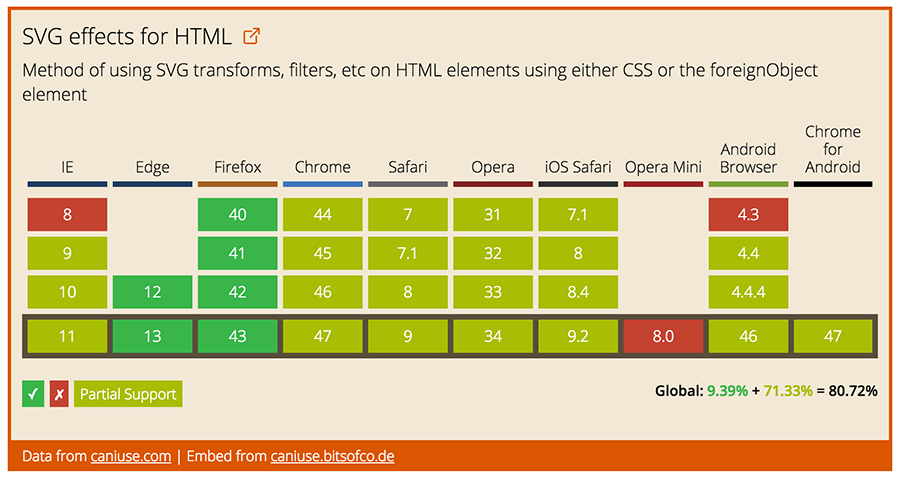
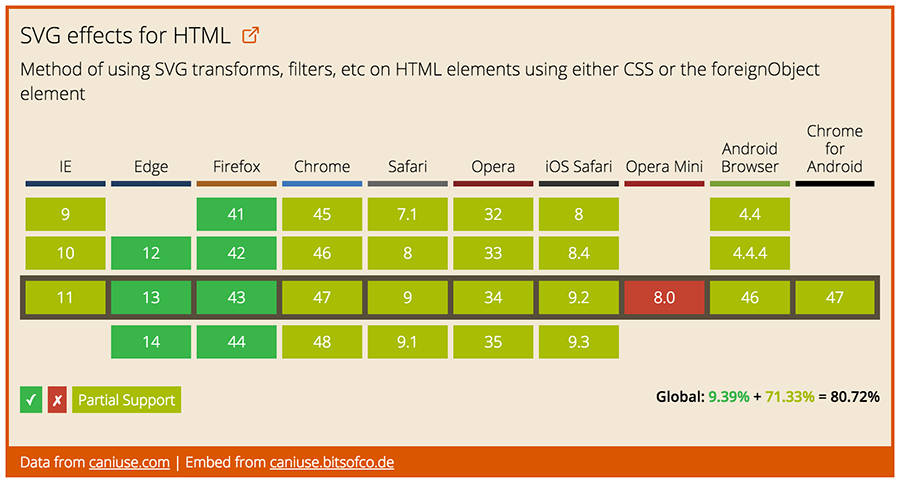
updated legend, new example image

Changed region(s): [[0.0, 0.0, 0.9956, 1.0]]

diff --git a/embed/index.html b/embed/index.html
@@ -1,1 +1,1 @@
-<html><body><link href="https://fonts.googleapis.com/css?family=Open+Sans:300,600' rel='stylesheet" rel=stylesheet inline><link rel=stylesheet href=style.css inline><div class=default-message></div><article class=feature><header class=feature-header><h1 class=feature-title><a href="/" class=feature-link target=_blank><span></span><svg width=15px viewbox="0 0 68 69"><title>External Link</title><g fill=#DB5600><path d="M64.855,0.781 L43.34,0.781 C41.613,0.781 40.219,2.18 40.219,3.902 C40.219,5.629 41.617,7.023 43.34,7.023 L57.66,7.023 L27.016,37.676 C25.797,38.895 25.797,40.871 27.016,42.094 C27.625,42.703 28.426,43.008 29.223,43.008 C30.02,43.008 30.82,42.703 31.43,42.094 L61.734,11.789 L61.734,25.418 C61.734,27.145 63.133,28.539 64.855,28.539 C66.582,28.539 67.977,27.141 67.977,25.418 L67.977,3.902 C67.977,2.18 66.582,0.781 64.855,0.781 L64.855,0.781 Z"></path><path d="M54.055,32.23 C52.328,32.23 50.934,33.629 50.934,35.352 L50.934,59.992 C50.934,61.121 49.98,62.074 48.852,62.074 L9.035,62.074 C7.906,62.074 6.953,61.121 6.953,59.992 L6.953,20.176 C6.953,19.047 7.906,18.094 9.035,18.094 L33.762,18.094 C35.488,18.094 36.883,16.695 36.883,14.973 C36.883,13.246 35.484,11.852 33.762,11.852 L9.031,11.852 C4.438,11.852 0.703,15.586 0.703,20.18 L0.703,59.996 C0.703,64.59 4.438,68.324 9.031,68.324 L48.848,68.324 C53.441,68.324 57.176,64.59 57.176,59.996 L57.176,35.355 C57.176,33.629 55.777,32.23 54.055,32.23 L54.055,32.23 Z"></path></g></svg></a></h1><p class=feature-description>&nbsp;</p></header><main class=feature-main><table class=feature-support><thead><tr><th class=ie><span class=browser-title><span>IE</span></span></th><th class=edge><span class=browser-title><span>Edge</span></span></th><th class=firefox><span class=browser-title><span>Firefox</span></span></th><th class=chrome><span class=browser-title><span>Chrome</span></span></th><th class=safari><span class=browser-title><span>Safari</span></span></th><th class=opera><span class=browser-title><span>Opera</span></span></th><th class=ios_saf><span class=browser-title><span>iOS Safari</span></span></th><th class=op_mini><span class=browser-title><span>Opera Mini</span></span></th><th class=android><span class=browser-title><span>Android Browser</span></span></th><th class=and_chr><span class=browser-title><span>Chrome for Android</span></span></th></tr></thead><tbody><tr class="past past_2 statistics"><td class=ie></td><td class=edge></td><td class=firefox></td><td class=chrome></td><td class=safari></td><td class=opera></td><td class=ios_saf></td><td class=op_mini></td><td class=android></td><td class=and_chr></td></tr><tr class="past past_1 statistics"><td class=ie></td><td class=edge></td><td class=firefox></td><td class=chrome></td><td class=safari></td><td class=opera></td><td class=ios_saf></td><td class=op_mini></td><td class=android></td><td class=and_chr></td></tr><tr class="current statistics"><td class=ie></td><td class=edge></td><td class=firefox></td><td class=chrome></td><td class=safari></td><td class=opera></td><td class=ios_saf></td><td class=op_mini></td><td class=android></td><td class=and_chr></td></tr><tr class="future future_1 statistics"><td class=ie></td><td class=edge></td><td class=firefox></td><td class=chrome></td><td class=safari></td><td class=opera></td><td class=ios_saf></td><td class=op_mini></td><td class=android></td><td class=and_chr></td></tr></tbody></table><small class=note></small><div class=legend><div class=y aria-label=Supported>&#x2713;</div><div class=n aria-lablel="Not Supported">&#x2717;</div><div class=a>Partial Support</div><div class=x>Prefixed</div></div></main><footer class=feature-footer>Data from <a href=http://caniuse.com target=_blank>caniuse.com</a> | Embed from <a href=http://caniuse.bitsofco.de target=_blank>caniuse.bitsofco.de</a></footer></article><script src=jquery.min.js></script><script src=script.js></script></body></html>
+<html><body><link href="https://fonts.googleapis.com/css?family=Open+Sans:300,600' rel='stylesheet" rel=stylesheet inline><link rel=stylesheet href=style.css inline><div class=default-message></div><article class=feature><header class=feature-header><h1 class=feature-title><a href="/" class=feature-link target=_blank><span></span><svg width=15px viewbox="0 0 68 69"><title>External Link</title><g fill=#DB5600><path d="M64.855,0.781 L43.34,0.781 C41.613,0.781 40.219,2.18 40.219,3.902 C40.219,5.629 41.617,7.023 43.34,7.023 L57.66,7.023 L27.016,37.676 C25.797,38.895 25.797,40.871 27.016,42.094 C27.625,42.703 28.426,43.008 29.223,43.008 C30.02,43.008 30.82,42.703 31.43,42.094 L61.734,11.789 L61.734,25.418 C61.734,27.145 63.133,28.539 64.855,28.539 C66.582,28.539 67.977,27.141 67.977,25.418 L67.977,3.902 C67.977,2.18 66.582,0.781 64.855,0.781 L64.855,0.781 Z"></path><path d="M54.055,32.23 C52.328,32.23 50.934,33.629 50.934,35.352 L50.934,59.992 C50.934,61.121 49.98,62.074 48.852,62.074 L9.035,62.074 C7.906,62.074 6.953,61.121 6.953,59.992 L6.953,20.176 C6.953,19.047 7.906,18.094 9.035,18.094 L33.762,18.094 C35.488,18.094 36.883,16.695 36.883,14.973 C36.883,13.246 35.484,11.852 33.762,11.852 L9.031,11.852 C4.438,11.852 0.703,15.586 0.703,20.18 L0.703,59.996 C0.703,64.59 4.438,68.324 9.031,68.324 L48.848,68.324 C53.441,68.324 57.176,64.59 57.176,59.996 L57.176,35.355 C57.176,33.629 55.777,32.23 54.055,32.23 L54.055,32.23 Z"></path></g></svg></a></h1><p class=feature-description>&nbsp;</p></header><main class=feature-main><table class=feature-support><thead><tr><th class=ie><span class=browser-title><span>IE</span></span></th><th class=edge><span class=browser-title><span>Edge</span></span></th><th class=firefox><span class=browser-title><span>Firefox</span></span></th><th class=chrome><span class=browser-title><span>Chrome</span></span></th><th class=safari><span class=browser-title><span>Safari</span></span></th><th class=opera><span class=browser-title><span>Opera</span></span></th><th class=ios_saf><span class=browser-title><span>iOS Safari</span></span></th><th class=op_mini><span class=browser-title><span>Opera Mini</span></span></th><th class=android><span class=browser-title><span>Android Browser</span></span></th><th class=and_chr><span class=browser-title><span>Chrome for Android</span></span></th></tr></thead><tbody><tr class="past past_2 statistics"><td class=ie></td><td class=edge></td><td class=firefox></td><td class=chrome></td><td class=safari></td><td class=opera></td><td class=ios_saf></td><td class=op_mini></td><td class=android></td><td class=and_chr></td></tr><tr class="past past_1 statistics"><td class=ie></td><td class=edge></td><td class=firefox></td><td class=chrome></td><td class=safari></td><td class=opera></td><td class=ios_saf></td><td class=op_mini></td><td class=android></td><td class=and_chr></td></tr><tr class="current statistics"><td class=ie></td><td class=edge></td><td class=firefox></td><td class=chrome></td><td class=safari></td><td class=opera></td><td class=ios_saf></td><td class=op_mini></td><td class=android></td><td class=and_chr></td></tr><tr class="future future_1 statistics"><td class=ie></td><td class=edge></td><td class=firefox></td><td class=chrome></td><td class=safari></td><td class=opera></td><td class=ios_saf></td><td class=op_mini></td><td class=android></td><td class=and_chr></td></tr></tbody></table><small class=note></small><div class=legend><div class=y aria-label=Supported>&#x2713;</div><div class=n aria-lablel="Not Supported">&#x2717;</div><div class=a>Partial Support</div><div class=x>Prefixed</div><div class=u aria-lablel="Unknown Support">?</div></div></main><footer class=feature-footer>Data from <a href=http://caniuse.com target=_blank>caniuse.com</a> | Embed from <a href=http://caniuse.bitsofco.de target=_blank>caniuse.bitsofco.de</a></footer></article><script src=jquery.min.js></script><script src=script.js></script></body></html>

diff --git a/embed/script.js b/embed/script.js
@@ -1,1 +1,1 @@
-$(document).ready(function(){function e(e,t){return Number(Math.round(e+"e"+t)+"e-"+t)}function t(e){return e&&e.indexOf("-")>-1&&(e=e.split("-")[1]),e}var a="https://raw.githubusercontent.com/Fyrd/caniuse/master/data.json",s=location.href.split("?feat=")[1],r=43,n=["ie","edge","firefox","chrome","safari","opera","ios_saf","op_mini","android","and_chr"],o=["future_1","current","past_1","past_2"];$(".default-message").html('<a href="http://caniuse.com/#feat='+s+'">Can I Use '+s+"?</a> Data on support for the "+s+" feature across the major browsers from caniuse.com."),$.getJSON(a,function(a){var u=a.data[s];if(u){var i=u.usage_perc_y,f=u.usage_perc_a,l=i+f,l=e(l,2),p=u.description;p.length>190&&(p=p.slice(0,180)+"...."),$(".feature-title span").html(u.title),$(".feature-description").html(p),$(".feature-link").attr("href","http://caniuse.com/#feat="+s),$(".note").html('Global: <span class="y">'+i+'%</span> + <span class="a">'+f+"%</span> = "+l+"%");for(var h={},c=0;c<n.length;c++){var d=n[c];h[d]={future_1:a.agents[d].versions[r+1],current:a.agents[d].versions[r],past_1:a.agents[d].versions[r-1],past_2:a.agents[d].versions[r-2]}}for(var g={},c=0;c<n.length;c++){var d=n[c],m=h[d].current,v=parseInt(a.agents[d].usage_global[m]),_=Math.round(v);g[d]=_}for(var x={},c=0;c<n.length;c++){var d=n[c];x[d]={future_1:u.stats[d][h[d].future_1],current:u.stats[d][h[d].current],past_1:u.stats[d][h[d].past_1],past_2:u.stats[d][h[d].past_2]}}for(var b=!1,c=0;c<n.length;c++)for(var d=n[c],w=0;w<o.length;w++){var y=o[w],O=$("tr."+y+" td."+d);void 0!=x[d][y]?O.addClass(x[d][y]):!1;var j=t(h[d][y]),C="<span>"+j+"</span>";"current"===y&&(C="<span>"+j+'</span><span class="usage">'+g[d]+"%</span>"),void 0!=h[d][y]?O.html(C):O.html("<span></span>"),void 0!=x[d][y]&&x[d][y].indexOf("x")>-1&&(b=!0)}b?$(".legend .x").show():$(".legend .x").hide()}else $(".feature-title").html("Uh Oh!"),$(".feature-description").html("The feature <strong>'"+s+"'</strong> was not recognized. "),$(".feature-main").html("");$(".default-message").hide(),$(".feature").show()})});
+$(document).ready(function(){function e(e,t){return Number(Math.round(e+"e"+t)+"e-"+t)}function t(e){return e&&e.indexOf("-")>-1&&(e=e.split("-")[1]),e}var a="https://raw.githubusercontent.com/Fyrd/caniuse/master/data.json",s=location.href.split("?feat=")[1],r=43,n=["ie","edge","firefox","chrome","safari","opera","ios_saf","op_mini","android","and_chr"],o=["future_1","current","past_1","past_2"];$(".default-message").html('<a href="http://caniuse.com/#feat='+s+'">Can I Use '+s+"?</a> Data on support for the "+s+" feature across the major browsers from caniuse.com. (Embed Loading)"),$.getJSON(a,function(a){var u=a.data[s];if(u){var i=u.usage_perc_y,f=u.usage_perc_a,l=i+f,l=e(l,2),h=u.description;h.length>190&&(h=h.slice(0,180)+"...."),$(".feature-title span").html(u.title),$(".feature-description").html(h),$(".feature-link").attr("href","http://caniuse.com/#feat="+s),$(".note").html('Global: <span class="y">'+i+'%</span> + <span class="a">'+f+"%</span> = "+l+"%");for(var d={},p=0;p<n.length;p++){var c=n[p];d[c]={future_1:a.agents[c].versions[r+1],current:a.agents[c].versions[r],past_1:a.agents[c].versions[r-1],past_2:a.agents[c].versions[r-2]}}for(var g={},p=0;p<n.length;p++){var c=n[p],m=d[c].current,v=parseInt(a.agents[c].usage_global[m]),_=Math.round(v);g[c]=_}for(var x={},p=0;p<n.length;p++){var c=n[p];x[c]={future_1:u.stats[c][d[c].future_1],current:u.stats[c][d[c].current],past_1:u.stats[c][d[c].past_1],past_2:u.stats[c][d[c].past_2]}}for(var b=!1,w=!1,p=0;p<n.length;p++)for(var c=n[p],O=0;O<o.length;O++){var y=o[O],j=$("tr."+y+" td."+c);void 0!=x[c][y]?j.addClass(x[c][y]):!1;var C=t(d[c][y]),I="<span>"+C+"</span>";"current"===y&&(I="<span>"+C+'</span><span class="usage">'+g[c]+"%</span>"),void 0!=d[c][y]?j.html(I):j.html("<span></span>"),void 0!=x[c][y]&&x[c][y].indexOf("x")>-1&&(b=!0),void 0!=x[c][y]&&x[c][y].indexOf("u")>-1&&(w=!0)}b?$(".legend .x").show():$(".legend .x").hide(),w?$(".legend .u").show():$(".legend .u").hide()}else $(".feature-title").html("Uh Oh!"),$(".feature-description").html("The feature <strong>'"+s+"'</strong> was not recognized. "),$(".feature-main").html("");$(".default-message").hide(),$(".feature").show()})});

diff --git a/development/embed/script.js b/development/embed/script.js
@@ -20,8 +20,7 @@ $(document).ready(function() {
 	}
 
 
-	$('.default-message').html('<a href="http://caniuse.com/#feat='+featureID+'">Can I Use '+featureID+'?</a> Data on support for the '+featureID+' feature across the major browsers from caniuse.com.');
-
+	$('.default-message').html('<a href="http://caniuse.com/#feat='+featureID+'">Can I Use '+featureID+'?</a> Data on support for the '+featureID+' feature across the major browsers from caniuse.com. (Embed Loading)');
 
 
 	// GET CANIUSE JSON
@@ -98,6 +97,7 @@ $(document).ready(function() {
 		
 
 			var hasPrefixed = false;
+			var hasUnknown = false;
 
 			// DISPLAY DATA
 			for (var i = 0; i < browsers.length; i++) {
@@ -126,9 +126,14 @@ $(document).ready(function() {
 					// ADD VERSION NUMBER TO TABLE CELL
 					browserVersions[browser][period] != undefined ? period_element.html(versionString) : period_element.html('<span></span>');
 
-					// CHECK IF ANY HAS PREFIX
+
+					// CHECK IF ANY HAS PREFIX OR UNKOWN
+
 					if ( data[browser][period] != undefined && data[browser][period].indexOf('x') > -1 ) {
 						hasPrefixed = true;
+					}
+					if ( data[browser][period] != undefined && data[browser][period].indexOf('u') > -1 ) {
+						hasUnknown = true;
 					}
 
 			
@@ -139,6 +144,7 @@ $(document).ready(function() {
 
 			// DISPLAY PREFIX LEGEND IF DATA HAS PREFIXED
 			hasPrefixed ? $('.legend .x').show() : $('.legend .x').hide()
+			hasUnknown ? $('.legend .u').show() : $('.legend .u').hide()
 
 		} // end else if feature
 

diff --git a/development/embed/index.html b/development/embed/index.html
@@ -3,8 +3,7 @@
 <link href="https://fonts.googleapis.com/css?family=Open+Sans:300,600' rel='stylesheet" rel="stylesheet" inline>
 <link rel="stylesheet" href="style.css" inline>
 
-<div class="default-message">
-</div>
+<div class="default-message"></div>
 	
 <article class="feature">
 
@@ -130,6 +129,7 @@
 			<div class="n" aria-lablel="Not Supported">&#x2717;</div>
 			<div class="a">Partial Support</div>
 			<div class="x">Prefixed</div>
+			<div class="u" aria-lablel="Unknown Support">?</div>
 		</div>
 	</main>
 

diff --git a/index.html b/index.html
@@ -61,8 +61,8 @@
 		<section class="site-section">
 			<h2>Example</h2>
 
-			<p class="ciu_embed" data-feature="picture">
-				<a href="http://caniuse.com/#feat=border-image">Can I Use border-image</a>
+			<p class="ciu_embed" data-feature="svg-html">
+				<a href="http://caniuse.com/#feat=svg-html">Can I Use picture?</a> Data on support for the svg-html feature across the major browsers from caniuse.com.
 			</p>
 		</section>
 

diff --git a/README.md b/README.md
@@ -13,6 +13,6 @@ Follow instructions [here](http://caniuse.bitsofco.de/#how-to-use) to generate a
 
 ## Copyright and Licence
 
-All data is from [caniuse](https://github.com/fyrd/caniuse), which is licenced under the [CC BY 4.0](http://creativecommons.org/licenses/by/4.0/) license.
+- All data is from [caniuse](https://github.com/fyrd/caniuse), which is licenced under the [CC BY 4.0](http://creativecommons.org/licenses/by/4.0/) license.
 
-This embed is also licenced under the [CC BY 4.0](http://creativecommons.org/licenses/by/4.0/) license.
+- This embed is created by [Ire Aderinokun](https://twitter.com/ireaderinokun), and is licenced under the [Apache 2](http://www.apache.org/licenses/LICENSE-2.0) license.
